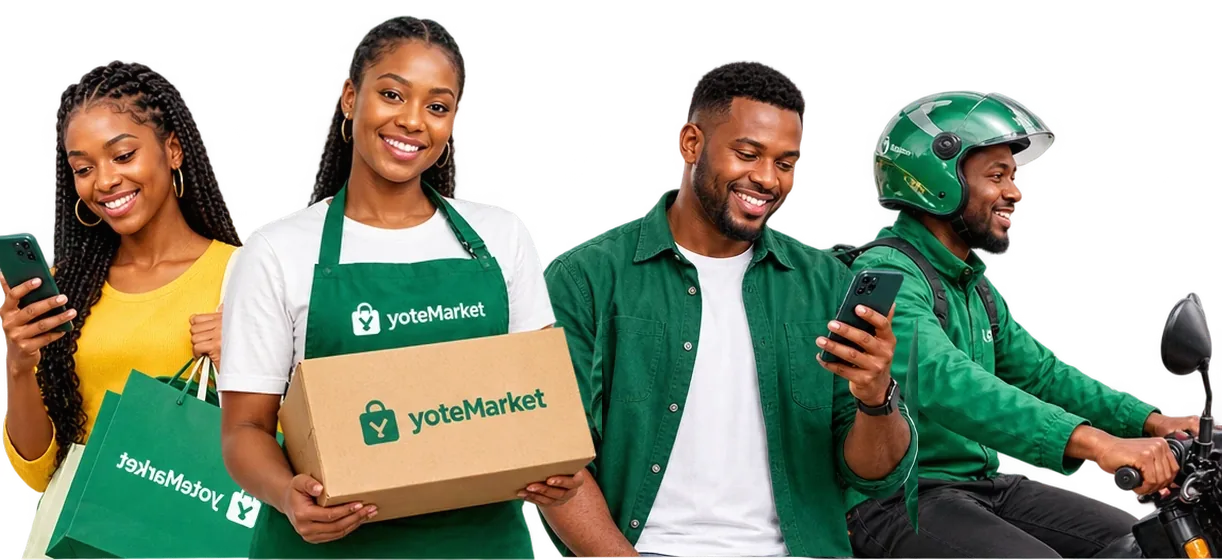
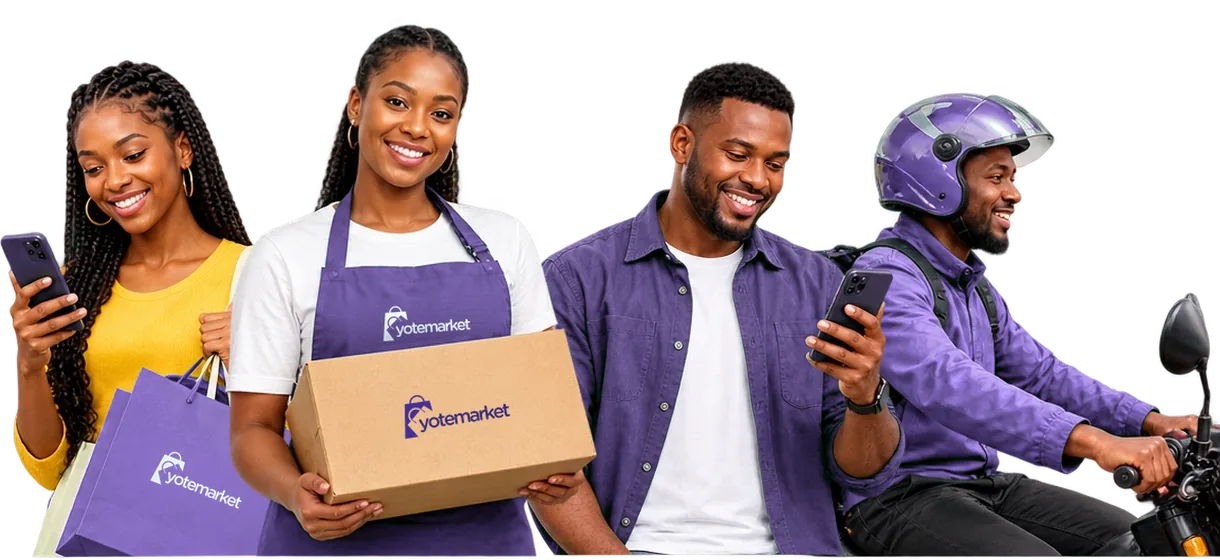
One platform, Earn and final CTA: the branded figures
The eight supplied models, branded: greens to purple, the real logo on every
bag, box, apron and delivery case. The CTA group's shopper is mirrored to face
out, with her bag's logo re-printed the right way round. CLAUDE.md documents
the bands; the copy's fact-check is queued in docs/TODO.md.

Claude-Session: https://claude.ai/code/session_01KJauiwZ2qSuPN8iTKVnUFx

diff --git a/CLAUDE.md b/CLAUDE.md
@@ -355,6 +355,24 @@ the code, 2026-10-08):
   starts each withdrawal. → "Withdraw to M-Pesa whenever you like".
 - Plan gates are shown where they apply (POS and Insight say Growth+).
 
+## One platform, Earn with YoteMarket and the final CTA (2026-10-08)
+
+`RolesSection`, `EarnSection` and `CtaSection` in `src/pages/HomeSections.jsx` (styles at the very end
+of `home-sections.css`) replace the old roles cards, the earn cards and the `cta-band`, laid out to the
+third brand board. The people are the eight supplied models (one sheet, already cut out), branded like
+the others: greens to purple in LCh, the real logo printed back on every bag, box, apron and delivery
+case, nothing else touched. Who goes where: Shop = the yellow-top shopper, Sell = the apron + laptop
+merchant, Earn = the megaphone scout, Ride = the standing rider; the Scout card = the blazer woman (she
+is the narrowest figure, and the card is narrow); the Rider card = the rider on his bike, behind a
+copy panel as on the board. `cta-group.webp` is one composite: the shopper MIRRORED to face out (the
+owner asked; her bag's logo was re-printed the right way round after the flip), the merchant with
+the parcel, the man with his phone, the rider. The figures' heads rise past their panels' tops: the
+panels clip their sides only (`clip-path: inset(-N% 0 0 0)`).
+
+**The copy on these bands has not been fact-checked yet** — see `docs/TODO.md`. In particular the
+rider band says "Get paid per run" while carriage is paused, and the marketer steps end in
+"Interview" (the earn landing says top scouts are invited to interview, not hired).
+
 ## Gotchas worth remembering
 
 - **The prerender `<noscript>` swap is position-sensitive.** A head comment mentions

diff --git a/docs/TODO.md b/docs/TODO.md
@@ -175,6 +175,18 @@ Terms say delivery is suspended.
 
 ---
 
+## P2 — check the One platform / Earn / CTA copy against the code (2026-10-08)
+
+- [ ] **`[web]` Fact-check the three bands from the third brand board.** They were merged before the
+  check finished. Verify against `kits/marketers/*`, `kits/earn/*`, `RiderPage.jsx`, `Terms.jsx`:
+  how scouts are paid (per verified merchant? checkpoints?), whether "Interview" is right, what a
+  rider can do while carriage is paused ("Deliver on your schedule. Get paid per run."), "paid to
+  M-Pesa" for both programs, and the CTA note "Local businesses. Real people. Fair prices."
+  **Done when:** every line on `RolesSection`, `EarnSection` and `CtaSection` is backed by product
+  code, and `CLAUDE.md` says so.
+
+---
+
 ## P3 — standing items, older than this session
 
 - [ ] **`[web]` No Uptodown listing URL yet.** Paste it into Admin → App releases when
